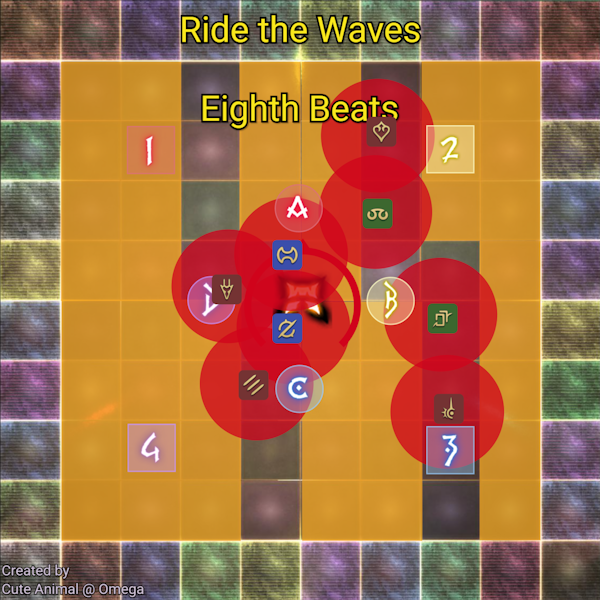
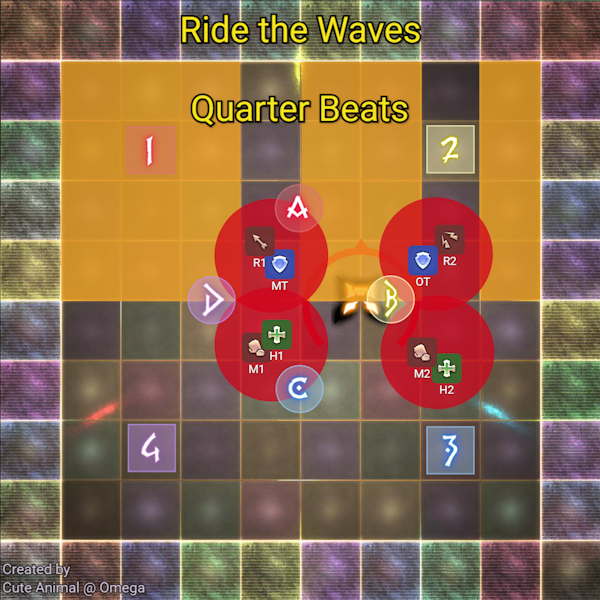
fix toxic rtw

diff --git a/wtfdig/src/routes/72/m5s/+page.ts b/wtfdig/src/routes/72/m5s/+page.ts
@@ -889,7 +889,7 @@ const toxicStrat: Strat = {
         },
         {
             phaseName: 'Ride the Waves', 
-            description: 'Melee Close Ranged Far Lanes\nG1 N G2 S',
+            description: 'G1 West, G2 East\nRanged Far, Melee Close\nTR HM Stacks',
             mechs: [
                 {
                     mechanic: 'Stacks/Spreads',
@@ -897,49 +897,49 @@ const toxicStrat: Strat = {
                         {
                             role: 'Tank',
                             party: 1,
-                            description: 'Close lane, north side\nStack with M1',
+                            description: 'West lane, North side, Close\nStack with R1',
                             imageUrl: './m5s/toxic/ride-the-wave.png',
                         },
                         {
                             role: 'Tank',
                             party: 2,
-                            description: 'Close lane, south side\nStack with M2',
+                            description: 'East lane, North side, Close\nStack with R2',
                             imageUrl: './m5s/toxic/ride-the-wave.png',
                         },
                         {
                             role: 'Healer',
                             party: 1,
-                            description: 'Far lane, north side\nStack with R1',
+                            description: 'West lane, South side, Far\nStack with M1',
                             imageUrl: './m5s/toxic/ride-the-wave.png',
                         },
                         {
                             role: 'Healer',
                             party: 2,
-                            description: 'Far lane, south side\nStack with R2',
+                            description: 'East lane, South side, Far\nStack with M2',
                             imageUrl: './m5s/toxic/ride-the-wave.png',
                         },
                         {
                             role: 'Melee',
                             party: 1,
-                            description: 'Close lane, north side\nStack with MT',
+                            description: 'West lane, South side, Close\nStack with H1',
                             imageUrl: './m5s/toxic/ride-the-wave.png',
                         },
                         {
                             role: 'Melee',
                             party: 2,
-                            description: 'Close lane, south side\nStack with OT',
+                            description: 'East lane, South side, Close\nStack with H2',
                             imageUrl: './m5s/toxic/ride-the-wave.png',
                         },
                         {
                             role: 'Ranged',
                             party: 1,
-                            description: 'Far lane, north side\nStack with H1',
+                            description: 'West lane, North side, Far\nStack with MT',
                             imageUrl: './m5s/toxic/ride-the-wave.png',
                         },
                         {
                             role: 'Ranged',
                             party: 2,
-                            description: 'Far lane, south side\nStack with H2',
+                            description: 'East lane, North side, Far\nStack with OT',
                             imageUrl: './m5s/toxic/ride-the-wave.png',
                         },
                     ]
